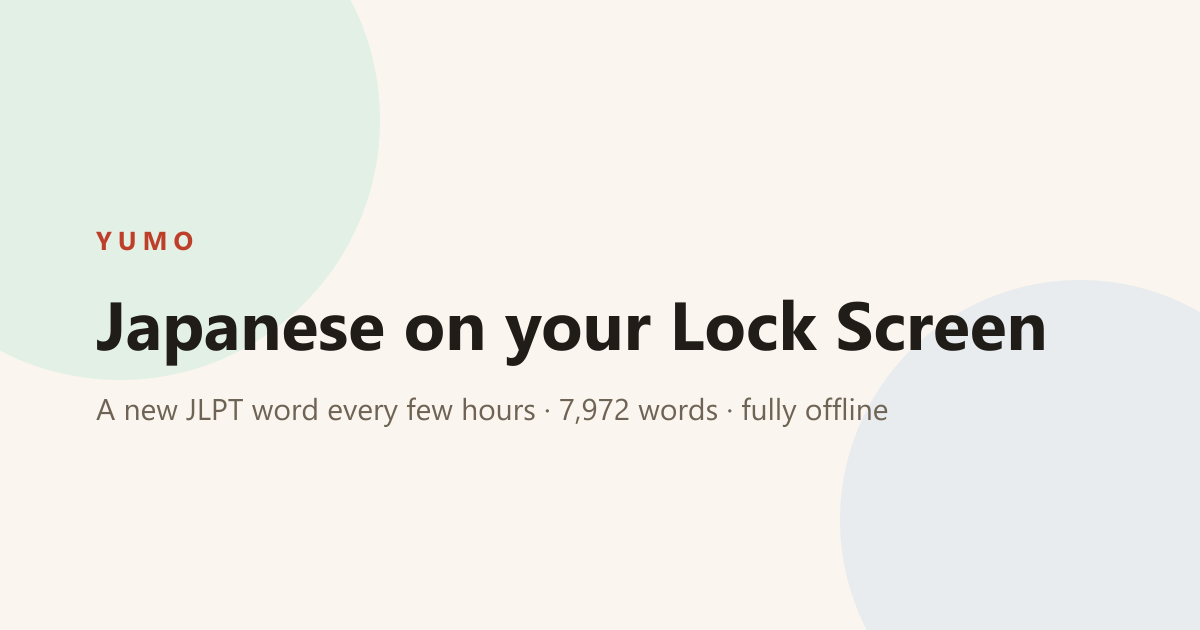
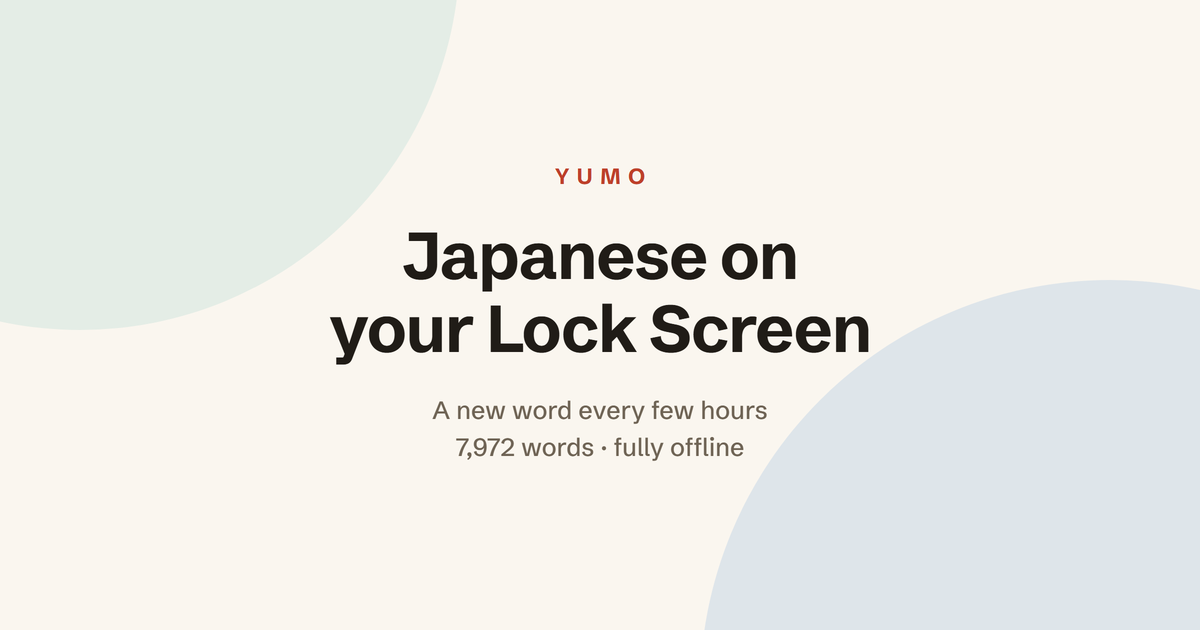
fix: compose the OG card so a square crop does not slice the headline
Shared into a chat, the card came back reading "ese on your Lock Scr" with no
wordmark. WhatsApp and others ignore the 1.91:1 aspect Open Graph implies and
crop to a square taken from the centre, so of a 1200px canvas only the middle
630 survives — and the old headline ran from x=95 to x=1045, straight through
both cut lines.

The composition is now centred inside that 630px square, with the decorative
circles left outside it as the only thing a crop is allowed to eat. Same card
at full width, intact when cropped.

Generated rather than hand-made, so the constraint is enforced instead of
remembered: build:og throws if any line outgrows the safe square, and writes
the square crop to shots-out/ to be looked at. French gets its own card —
/fr had been serving English artwork.

diff --git a/app/(fr)/fr/page.tsx b/app/(fr)/fr/page.tsx
@@ -23,7 +23,7 @@ export const metadata: Metadata = {
     type: 'website',
     images: [
       {
-        url: '/og.png',
+        url: '/og-fr.png',
         width: 1200,
         height: 630,
         alt: "Yumo affichant un mot japonais sur l'écran de verrouillage d'un iPhone",
@@ -34,7 +34,7 @@ export const metadata: Metadata = {
     card: 'summary_large_image',
     title: t.meta.title,
     description: t.meta.ogDescription,
-    images: ['/og.png'],
+    images: ['/og-fr.png'],
   },
 };
 
